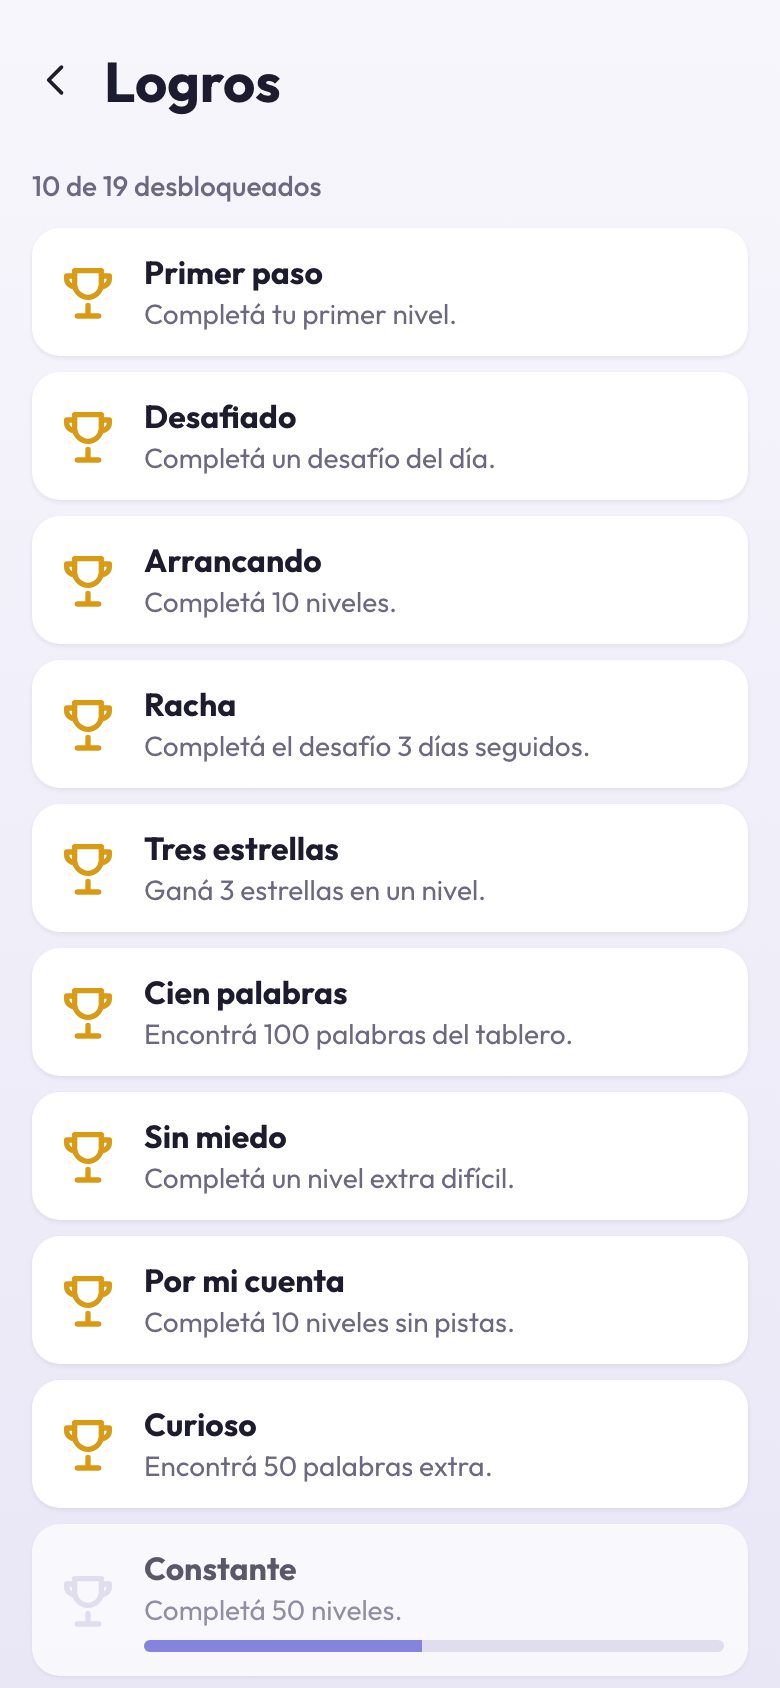
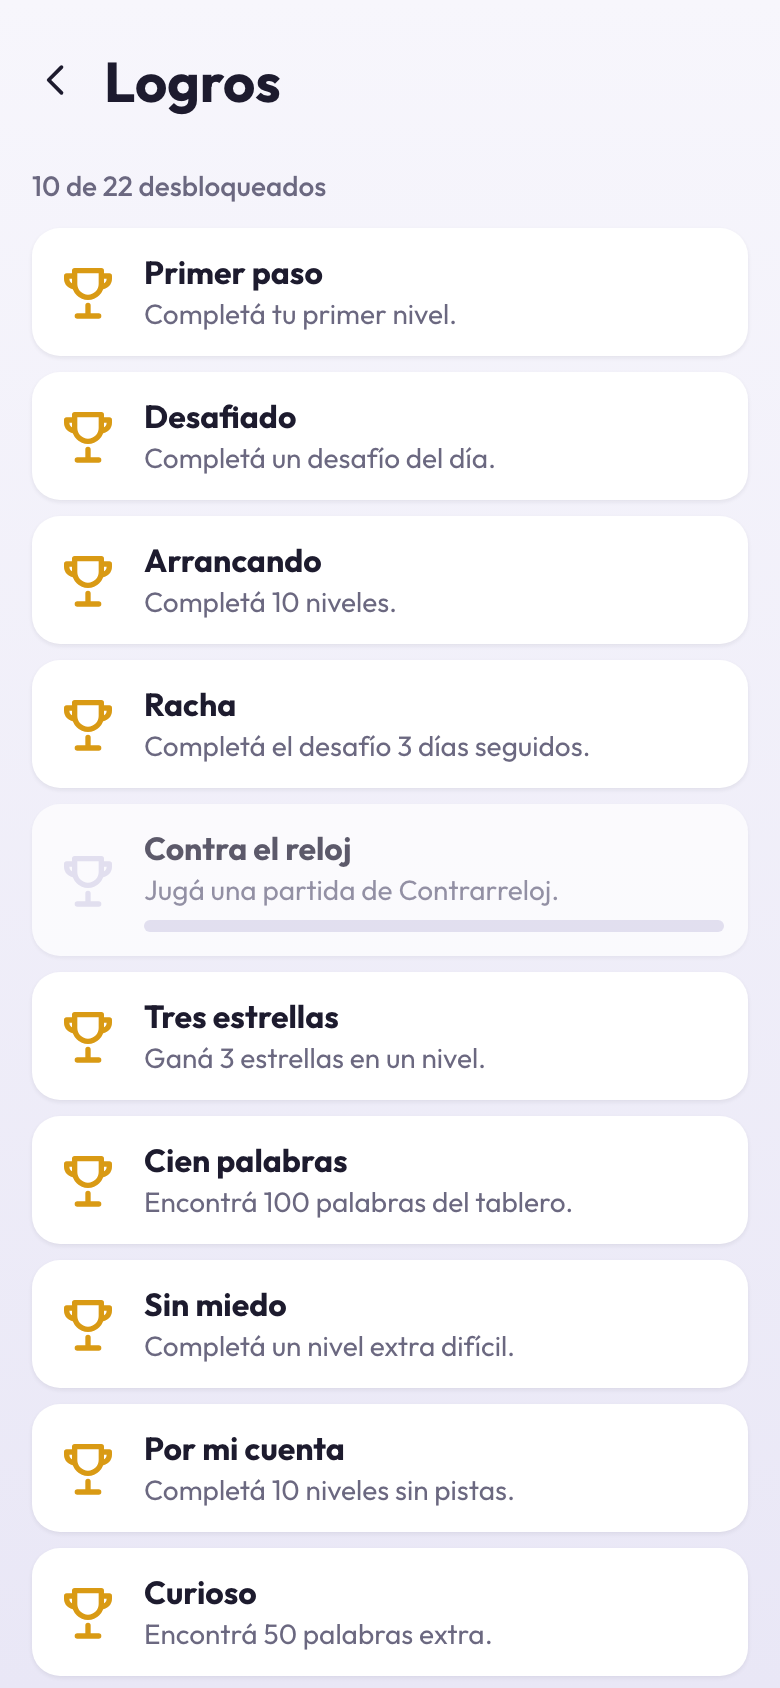
docs: Contrarreloj in the player guide and GAME.md
A guide page (how a run goes, Pasar, what it keeps apart), in the sidebar and
on the guide's home, with a screenshot taken by the screenshot spec; a
Contrarreloj section in GAME.md. Home, Logros and Menu screenshots retaken
(the new card, stats and the Sonido switch).

Claude-Session: https://claude.ai/code/session_01Gg7qUvknuZvLRpStG76onm

Changed region(s): [[0.0615, 0.4929, 0.9538, 0.9858], [0.1231, 0.0924, 0.4308, 0.1232], [0.0615, 0.4929, 0.1538, 0.5545]]

diff --git a/guide/screenshots.spec.ts b/guide/screenshots.spec.ts
@@ -8,7 +8,7 @@ import { dateKey } from '../src/core/daily.ts';
 import type { LevelRecord } from '../src/core/history.ts';
 import { NEW_PROGRESS, type Progress } from '../src/core/progress.ts';
 import { saveGame } from '../src/storage/save.ts';
-import { level } from '../tests/e2e/level.ts';
+import { level, trialWheel } from '../tests/e2e/level.ts';
 import { drawWord } from '../tests/e2e/wheel.ts';
 
 const OUT = 'guide/public/screenshots';
@@ -136,4 +136,14 @@ test('playing a level, from first words to the end', async ({ page }) => {
   for (const word of rest) await drawWord(page, word);
   await page.waitForTimeout(1500);
   await shot(page, 'nivel-completo');
+});
+
+test('a Contrarreloj run', async ({ page }) => {
+  await page.addInitScript(() => (Math.random = () => 0.5));
+  await open(page);
+  await page.getByRole('button', { name: /^Contrarreloj/ }).click();
+  const wheel = trialWheel(0.5);
+  for (const word of wheel.targets.slice(0, 2)) await drawWord(page, word);
+  await page.waitForTimeout(1200);
+  await shot(page, 'contrarreloj');
 });

diff --git a/guide/.vitepress/config.ts b/guide/.vitepress/config.ts
@@ -37,6 +37,7 @@ export default defineConfig({
         items: [
           { text: 'Estrellas, mapa y logros', link: '/progreso' },
           { text: 'Desafío del día', link: '/desafio-del-dia' },
+          { text: 'Contrarreloj', link: '/contrarreloj' },
         ],
       },
       {

diff --git a/guide/contrarreloj.md b/guide/contrarreloj.md
@@ -1,0 +1,32 @@
+# Contrarreloj
+
+Un modo rápido, aparte del juego de siempre: **rueda tras rueda contra el reloj**, a ver
+hasta dónde llegás. Lo encontrás en la pantalla de inicio.
+
+<img class="screen" src="/screenshots/contrarreloj.png" alt="Una partida de Contrarreloj: el reloj, el tablero y la rueda">
+
+## Cómo es
+
+- Arrancás con **1 minuto**.
+- Cada palabra del tablero te da **3 segundos** más, y cada palabra extra, **1**.
+- Cuando completás el tablero, ganás **10 segundos** y aparece la **rueda siguiente**,
+  un poco más difícil: empieza con 6 letras fáciles y llega a 8.
+- Los tableros son chicos (5 o 6 palabras), para que se puedan completar a tiempo.
+- La partida termina cuando el reloj llega a cero. Tu puntaje son los **puntos** que
+  juntaste, igual que en los niveles.
+
+## Pasar
+
+¿Una rueda que no sale? **Pasar** te da otra, por **10 segundos** del reloj. Si te quedan
+10 segundos o menos, ya no se puede: jugate el final.
+
+No hay pistas en Contrarreloj.
+
+## Aparte del resto
+
+- Cada partida tiene ruedas nuevas, elegidas al azar: nunca se repite una partida.
+- No cambia tus puntos, tus pistas ni tu nivel. Guarda lo suyo: tu **mejor marca**, cuántas
+  partidas jugaste y el récord de ruedas, que ves en **Logros**.
+- Tiene tres logros propios: _Contra el reloj_, _A las corridas_ y _Rueda libre_.
+- Si salís de la app, el reloj se frena hasta que volvés. Si salís de la pantalla, la
+  partida se pierde.

diff --git a/docs/GAME.md b/docs/GAME.md
@@ -67,6 +67,19 @@ freeze, end it (`streakOf`). The result
 can be shared: "Grama #3 · Miércoles · Media / ★★☆ · 1 pista · 🔥 3". Points and hints are
 shared with the main game; it never moves the current level.
 
+### Contrarreloj (`src/core/time-trial.ts`, D19)
+
+A timed mode, apart from the main game. A run starts with 60 seconds; a target adds 3,
+a bonus word 1, and finishing a wheel's board adds 10 and brings the next wheel, harder
+as the run goes (`RAMP`: 6 easy letters with 5 targets first, up to 8 hard letters with
+6). **Pasar** skips to a new wheel for 10 seconds, unless that would end the run; there
+are no hints. The run ends at zero, and its score is its points (as in levels).
+
+Every run gets a random seed, so its wheels are new. The clock stops while the app is
+hidden; leaving the screen drops the run. Runs never touch the main score, hints, stars
+or level: they keep their own record (runs played, best run, most wheels), saved apart
+(`storage/trials`), which feeds three achievements.
+
 ### Achievements (`src/core/achievements.ts`)
 
 22 achievements, each a stat reaching a goal (levels, stars, extra-hard levels, words,

diff --git a/docs/PLAN.md b/docs/PLAN.md
@@ -244,7 +244,7 @@ A timed mode, apart from the main game (D19).
       with the best score
 - [x] Home card, best score and record (runs, most wheels) saved apart from progress; 3
       achievements
-- [ ] Guide page and GAME.md section
+- [x] Guide page and GAME.md section
 
 **Verify:** a run feels tense but fair: a 6-letter wheel is clearable in time, Pasar
 rescues a dead wheel, and the best score survives reloads.

diff --git a/guide/index.md b/guide/index.md
@@ -33,4 +33,8 @@ features:
     title: Desafío del día
     details: Un nivel por día, igual para todos, y una racha para cuidar.
     link: /desafio-del-dia
+  - icon: ⏱
+    title: Contrarreloj
+    details: Rueda tras rueda contra el reloj, a ver hasta dónde llegás.
+    link: /contrarreloj
 ---
